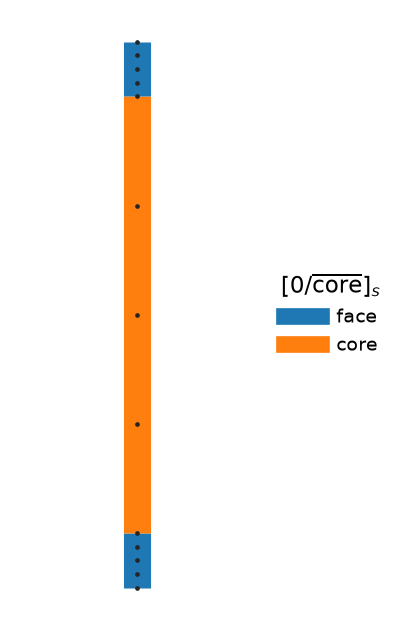
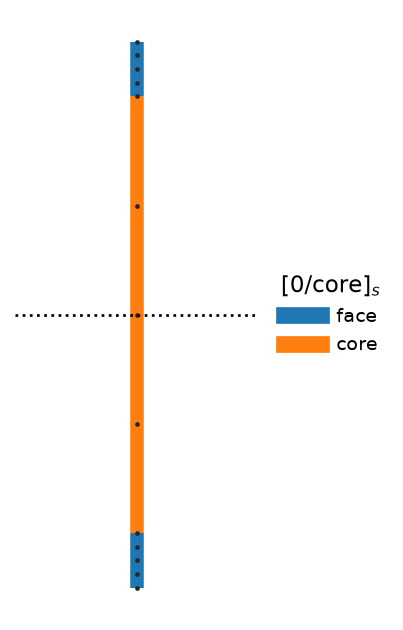
segment_plate: draw the SG PNG in plate_sg_yaml (the WRITER), not in the reader. plate_sg_yaml now plots from the document it has just built, so generating an SG costs ZERO file reads for the picture; read_plate_sg_yaml is a pure reader again with no png side effect, which matters because recover_dy

diff --git a/opensg_jax/fe_jax/segment_plate.py b/opensg_jax/fe_jax/segment_plate.py
@@ -7,9 +7,10 @@ result to ``msg_rm_plate.rm_plate_msg``:
 
     layup dict --plate_sg_yaml--> 1-D SG YAML --read_plate_sg_yaml--> rm_plate_msg(...)
 
-``read_plate_sg_yaml`` also draws the mesh PNG by default (``png=False`` to skip), from
-the document it has just parsed -- so one read gives you both the homogenizer's arguments
-and the picture.  ``plot_plate_sg`` remains as a thin shim over it.
+``plate_sg_yaml`` draws the mesh PNG as it generates the SG (``png=False`` to skip),
+from the document it has just built -- so the picture costs no file read, and
+``read_plate_sg_yaml`` stays a pure reader.  ``plot_plate_sg`` is for a YAML you did
+not just write.
 
 Distinguish this from the 1-D SHELL SG YAML (e.g. ``examples/data/1d_yaml/st15_shell.yaml``):
 that one is the CONTOUR of a cross-section -- line elements running around the airfoil, each
@@ -120,23 +121,33 @@ def plate_sg_dict(layup, material_db, n_per_layer=1, elem_order=4, fraction=0.5)
             "sections": sections}
 
 
-def plate_sg_yaml(path, layup, material_db, n_per_layer=1, elem_order=4, fraction=0.5):
-    """Write the through-thickness 1-D SG YAML for a layup.  Returns the written dict."""
+def plate_sg_yaml(path, layup, material_db, n_per_layer=1, elem_order=4, fraction=0.5,
+                  png=True, png_path=None):
+    """Write the through-thickness 1-D SG YAML for a layup.  Returns the written dict.
+
+    The mesh PNG is drawn here too (``png=False`` to skip), straight from the document
+    this call has just built -- so generating an SG costs ZERO reads: neither this
+    function nor the caller has to open the file again just to picture it.  Use
+    ``plot_plate_sg`` only for a YAML you did not just write.
+    """
     doc = plate_sg_dict(layup, material_db, n_per_layer, elem_order, fraction)
     d = os.path.dirname(os.path.abspath(path))
     if d and not os.path.isdir(d):
         os.makedirs(d)
     with open(path, "w") as f:
         yaml.safe_dump(doc, f, sort_keys=False, default_flow_style=None)
+    if png:
+        _draw_from_doc(doc, png_path or (os.path.splitext(path)[0] + ".png"),
+                       material_db)
     return doc
 
 
-def read_plate_sg_yaml(path, atol=1e-9, png=True, png_path=None):
-    """Read a plate 1-D SG YAML back into the arguments ``rm_plate_msg`` takes,
-    and (by default) draw the mesh PNG from that same parse.
+def read_plate_sg_yaml(path, atol=1e-9):
+    """Read a plate 1-D SG YAML back into the arguments ``rm_plate_msg`` takes.
 
     Returns a dict with keys thick / angles / mat_names / material_db / fraction /
-    n_per_layer / elem_order / node_x / png.
+    n_per_layer / elem_order / node_x.  A pure reader -- the mesh PNG is drawn by
+    ``plate_sg_yaml`` when the SG is generated, so nothing here re-runs to plot.
 
     Ply thicknesses and the reference fraction are taken from the stored fields and then
     CROSS-CHECKED against the mesh (summed element spans, node_x[0]) to ``atol`` relative.
@@ -144,12 +155,6 @@ def read_plate_sg_yaml(path, atol=1e-9, png=True, png_path=None):
     turns a 0.004 ply into 0.004000000000000002, which propagates to ~1e-14 in the 8x8 --
     while checking keeps the round trip bit-exact AND still catches a corrupt or
     hand-edited file, where mesh and header would genuinely disagree.
-
-    ``png=True`` (the default) writes the mesh picture next to the YAML and returns its
-    path under the ``"png"`` key; ``png=False`` skips the drawing entirely, and matplotlib
-    is only imported when it is actually needed.  The plot is produced HERE, from the
-    document this call already parsed, rather than by re-opening the file -- reading a
-    YAML twice to draw what the first read already knew was pure waste.
     """
     with open(path, "r") as f:
         doc = yaml.safe_load(f)
@@ -189,17 +194,9 @@ def read_plate_sg_yaml(path, atol=1e-9, png=True, png_path=None):
     if h > 0 and abs(-frac * h - node_x[0]) > atol * h:
         raise ValueError("%s: reference_fraction %g puts the bottom face at %g, "
                          "but the first node is at %g" % (path, frac, -frac * h, node_x[0]))
-    out = {"thick": thick, "angles": angles, "mat_names": mat_names,
-           "material_db": material_db, "n_per_layer": counts[0],
-           "elem_order": len(elements[0]) - 1, "fraction": frac, "node_x": node_x,
-           "png": None}
-    if png:
-        section_sets = [s["elementSet"] for s in doc["sections"]]
-        out["png"] = _draw_plate_sg(
-            png_path or (os.path.splitext(path)[0] + ".png"),
-            node_x, elements, elem_sets, section_sets,
-            mat_names, thick, angles, material_db)
-    return out
+    return {"thick": thick, "angles": angles, "mat_names": mat_names,
+            "material_db": material_db, "n_per_layer": counts[0],
+            "elem_order": len(elements[0]) - 1, "fraction": frac, "node_x": node_x}
 
 
 def layup_label(angles, mat_names):
@@ -228,8 +225,28 @@ def layup_label(angles, mat_names):
     return "$[%s]$" % "/".join(tok)
 
 
+def _draw_from_doc(doc, png_path, material_db=None):
+    """Draw the mesh straight out of an SG document (the dict that IS the YAML).
+
+    Used by ``plate_sg_yaml`` on the document it just built -- no file is reopened --
+    and by ``plot_plate_sg`` on one it has just loaded.
+    """
+    node_x = np.array([float(np.atleast_1d(nd)[0]) for nd in doc["nodes"]])
+    elements = [[int(v) - 1 for v in el] for el in doc["elements"]]
+    elem_sets = {s["name"]: [int(v) - 1 for v in s["labels"]]
+                 for s in doc["sets"]["element"]}
+    section_sets = [s["elementSet"] for s in doc["sections"]]
+    mat_names = [str(s["material"]) for s in doc["sections"]]
+    angles = [float(s["angle"]) for s in doc["sections"]]
+    if material_db is None:                       # names carried in the file itself
+        material_db = {m["name"]: {"full_name": m.get("full_name") or m["name"]}
+                       for m in doc["materials"]}
+    return _draw_plate_sg(png_path, node_x, elements, elem_sets, section_sets,
+                          mat_names, angles, material_db)
+
+
 def _draw_plate_sg(png_path, node_x, elements, elem_sets, section_sets,
-                   mat_names, thick, angles, material_db=None):
+                   mat_names, angles, material_db=None):
     """Draw the 1-D through-thickness mesh from ALREADY-PARSED arrays and save it.
 
     Deliberately plain: each element is the line segment between its own end nodes,
@@ -260,8 +277,9 @@ def _draw_plate_sg(png_path, node_x, elements, elem_sets, section_sets,
         label = (material_db or {}).get(m, {}).get("full_name") or m
         ax.plot([], [], "-", color=colr[m], lw=8, label=label)
     # x3 = 0 IS the reference plane by construction of the mesh -- draw it, rather
-    # than encoding it as an overbar in the stacking sequence
-    ax.axhline(0.0, ls=":", color="k", lw=1.3, zorder=4, label="reference plane")
+    # than encoding it as an overbar in the stacking sequence (no legend entry:
+    # a dotted line straight through the mid-plane needs no caption)
+    ax.axhline(0.0, ls=":", color="k", lw=1.3, zorder=4)
 
     ax.set_xlim(-0.05, 0.05)
     ax.set_xticks([])
@@ -276,12 +294,14 @@ def _draw_plate_sg(png_path, node_x, elements, elem_sets, section_sets,
 
 
 def plot_plate_sg(path, png_path=None):
-    """Backward-compatible shim: draw a plate SG YAML's mesh and return the PNG path.
+    """Draw the mesh of an EXISTING plate SG YAML.  Returns the PNG path.
 
-    The drawing now happens inside ``read_plate_sg_yaml``; call that directly (its
-    ``"png"`` key is this return value) rather than reading the file a second time
-    just to plot it.
+    Only needed for a file you did not just write -- ``plate_sg_yaml`` already draws
+    the PNG as it generates the SG, with no read at all.  One parse here, not the
+    three this used to cost.
     """
-    return read_plate_sg_yaml(path, png=True, png_path=png_path)["png"]
+    with open(path, "r") as f:
+        doc = yaml.safe_load(f)
+    return _draw_from_doc(doc, png_path or (os.path.splitext(path)[0] + ".png"))
 
 

diff --git a/examples/opensg-rm_dynamic/ex4/make_abaqus_freq.py b/examples/opensg-rm_dynamic/ex4/make_abaqus_freq.py
@@ -44,7 +44,7 @@ while not os.path.isdir(os.path.join(ROOT, "opensg_jax")):
 sys.path.insert(0, ROOT)
 
 from opensg_jax.fe_jax.msg_rm_plate import rm_plate_msg
-from opensg_jax.fe_jax.segment_plate import plate_sg_yaml, read_plate_sg_yaml
+from opensg_jax.fe_jax.segment_plate import plate_sg_yaml
 
 # ----------------------------------------------------------------------------
 # ALL CASE DATA (Nayak Ex.4 digits; shared with collect_freq.py)
@@ -151,8 +151,7 @@ def main():
         yml = os.path.join(HERE, "ex4_%s_sg.yaml" % slug)
         plate_sg_yaml(yml, {"mat_names": list(mats), "thick": list(thick),
                             "angles": list(map(float, angles))},
-                      MATERIAL_DB, fraction=0.5)
-        read_plate_sg_yaml(yml)             # the read also draws the mesh PNG
+                      MATERIAL_DB, fraction=0.5)    # writes the yaml AND the png
         path, rho_h = write_freq_inp(slug, angles, mats, thick)
         print("wrote %s (rho_h = %.4f kg/m^2)"
               % (os.path.basename(path), rho_h))

diff --git a/examples/opensg-rm_dynamic/ex5/make_1dsg.py b/examples/opensg-rm_dynamic/ex5/make_1dsg.py
@@ -64,10 +64,10 @@ layup = {"mat_names": ["ge"] * 4 + ["herex"] + ["ge"] * 4,
 # bottom -> top: (0/90/0/90/core/90/0/90/0) = (0/90/0/90/core)s
 
 yml = os.path.join(HERE, "sandwich_sg.yaml")
-plate_sg_yaml(yml, layup, MATERIAL_DB, fraction=0.5)
-inp = read_plate_sg_yaml(yml)               # the read also draws the mesh PNG
-print("wrote %s + %s" % (os.path.basename(yml), os.path.basename(inp["png"])))
+plate_sg_yaml(yml, layup, MATERIAL_DB, fraction=0.5)    # writes the yaml AND the png
+print("wrote %s + %s" % (os.path.basename(yml), "sandwich_sg.png"))
 
+inp = read_plate_sg_yaml(yml)
 r = rm_plate_msg(inp["thick"], inp["angles"], inp["mat_names"],
                  inp["material_db"], fraction=inp["fraction"])
 ROWS = ("e11", "e22", "g12", "k11", "k22", "k12", "2g13", "2g23")

diff --git a/examples/opensg-rm_dynamic/ex2/make_abaqus_ex2.py b/examples/opensg-rm_dynamic/ex2/make_abaqus_ex2.py
@@ -67,8 +67,8 @@ LAYUP = {"mat_names": ["ge25"] * 3, "thick": [H / 3.0] * 3,
          "angles": [0.0, 90.0, 0.0]}
 
 yml = os.path.join(HERE, "ex2_sg.yaml")
-plate_sg_yaml(yml, LAYUP, MATERIAL_DB, fraction=0.5)
-inp = read_plate_sg_yaml(yml)               # the read also draws the mesh PNG
+plate_sg_yaml(yml, LAYUP, MATERIAL_DB, fraction=0.5)    # writes the yaml AND the png
+inp = read_plate_sg_yaml(yml)
 r = rm_plate_msg(inp["thick"], inp["angles"], inp["mat_names"],
                  inp["material_db"], fraction=inp["fraction"])
 ABDG = np.asarray(r["ABDG"])

diff --git a/examples/opensg-rm_dynamic/ex1/make_fig5_rm.py b/examples/opensg-rm_dynamic/ex1/make_fig5_rm.py
@@ -56,7 +56,7 @@ MATERIAL_DB = {"iso": {"E": [EMOD] * 3, "G": [EMOD / (2 * (1 + NU))] * 3,
 yml = os.path.join(HERE, "ex1_sg.yaml")
 plate_sg_yaml(yml, {"mat_names": ["iso"], "thick": [H], "angles": [0.0]},
               MATERIAL_DB, fraction=0.5)
-inp = read_plate_sg_yaml(yml)               # the read also draws the mesh PNG
+inp = read_plate_sg_yaml(yml)
 r = rm_plate_msg(inp["thick"], inp["angles"], inp["mat_names"],
                  inp["material_db"], fraction=inp["fraction"])
 ABDG = np.asarray(r["ABDG"])

diff --git a/examples/opensg-rm_dynamic/ex3/make_abaqus_ex3.py b/examples/opensg-rm_dynamic/ex3/make_abaqus_ex3.py
@@ -79,7 +79,7 @@ def write_static(S):
              "angles": [0.0, 0.0, 0.0]}
     yml = os.path.join(HERE, "ex3_S%d_sg.yaml" % S)
     plate_sg_yaml(yml, layup, MATERIAL_DB, fraction=0.5)
-    inp = read_plate_sg_yaml(yml)           # the read also draws the mesh PNG
+    inp = read_plate_sg_yaml(yml)
     r = rm_plate_msg(inp["thick"], inp["angles"], inp["mat_names"],
                      inp["material_db"], fraction=inp["fraction"])
     ABDG = np.asarray(r["ABDG"])
